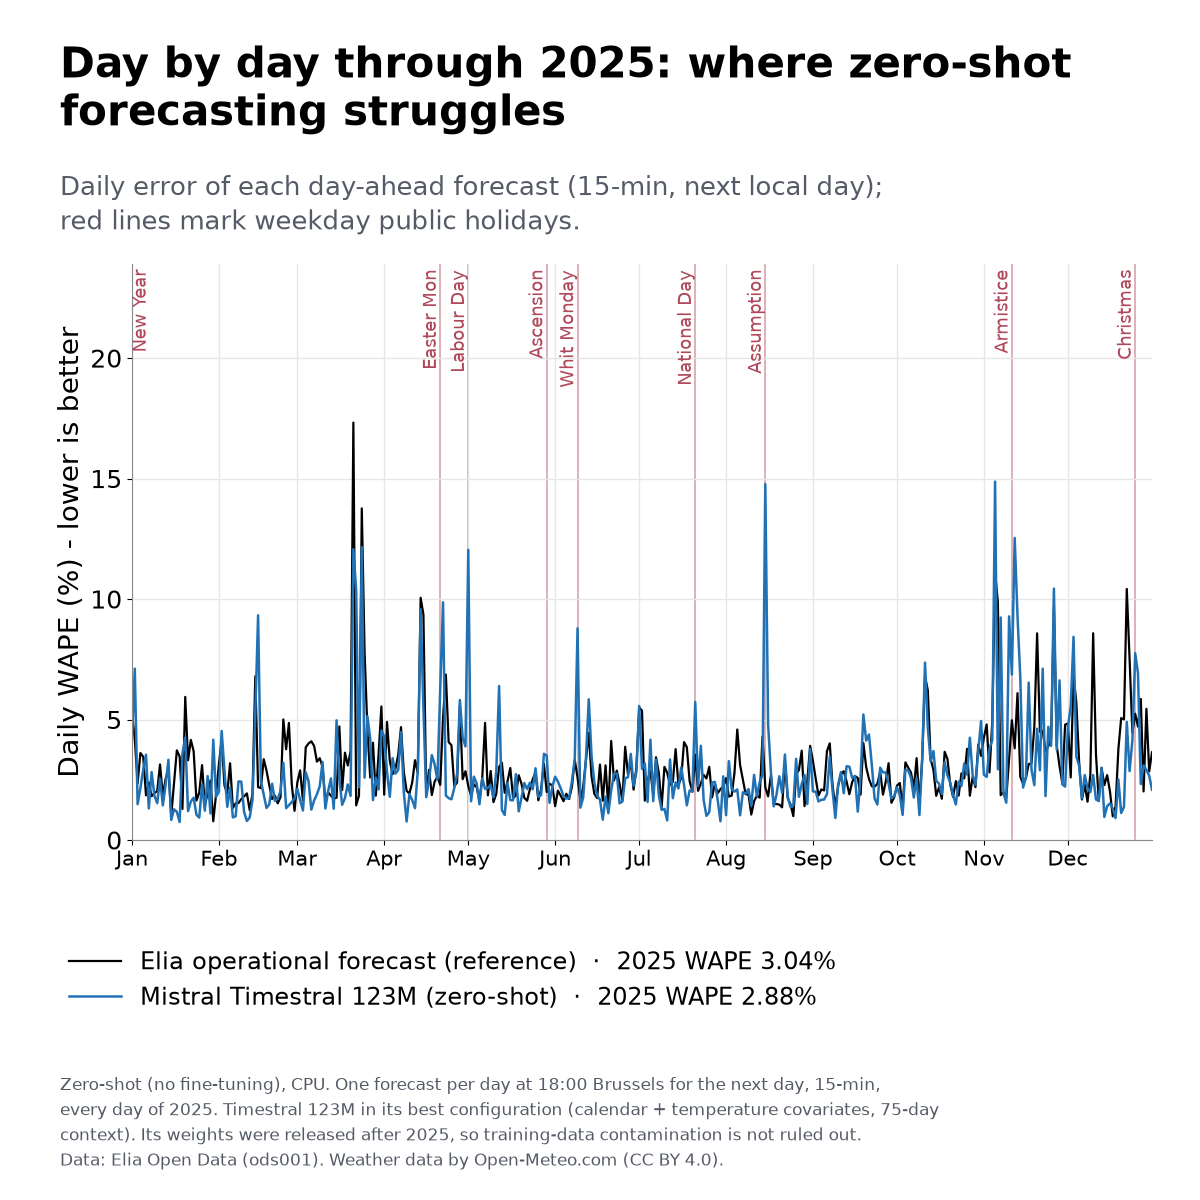
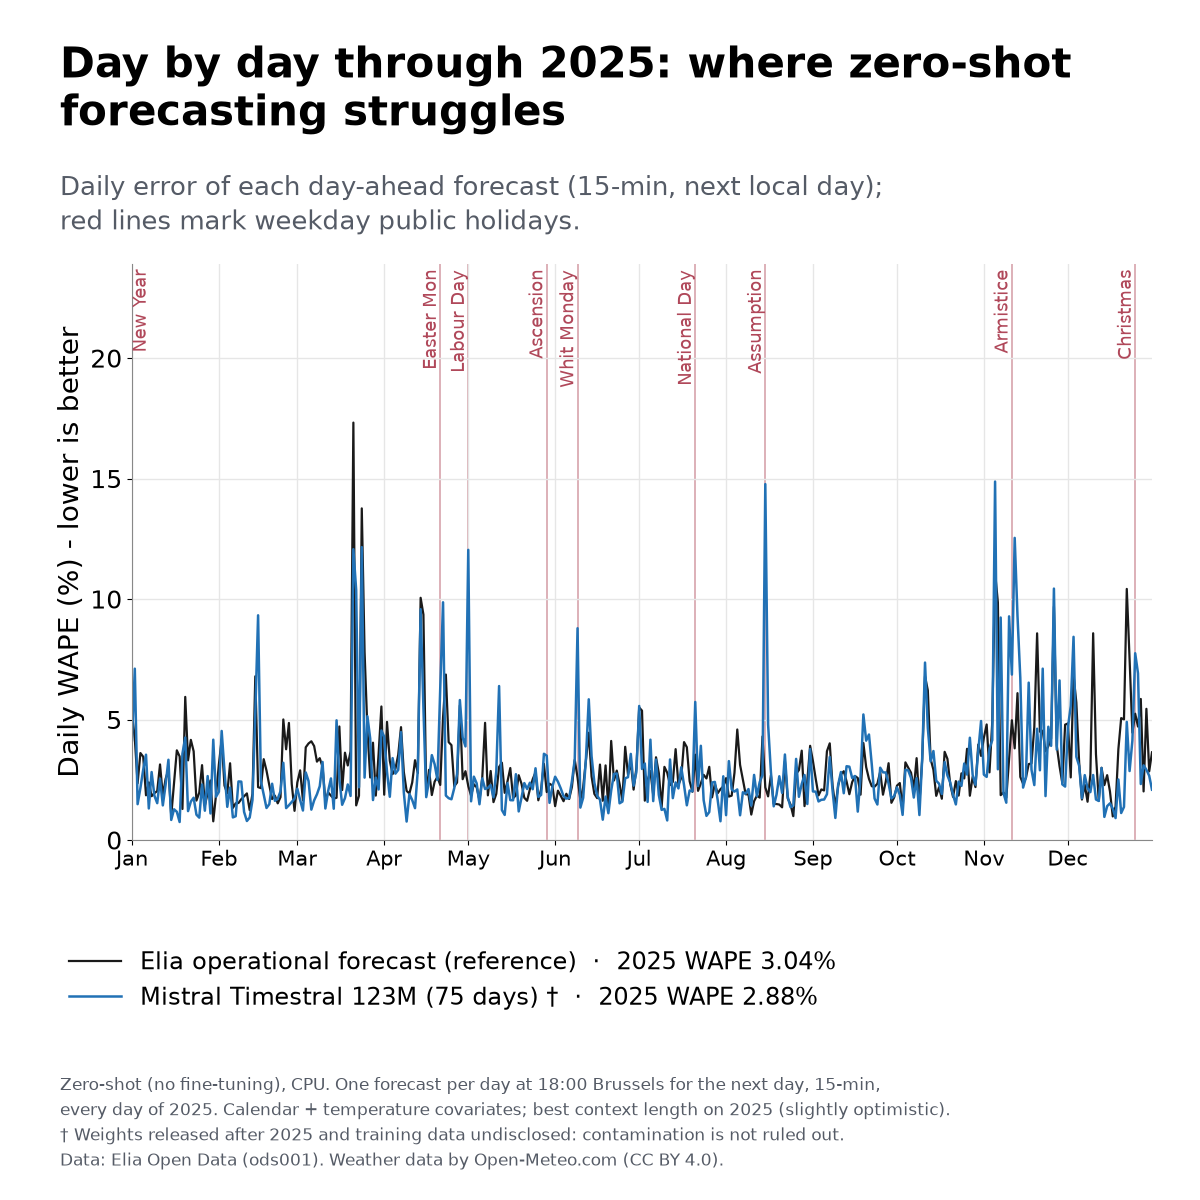
Images: typical week, new labels

diff --git a/scripts/plot_linkedin.py b/scripts/plot_linkedin.py
@@ -3,8 +3,9 @@
     uv run bench export-dashboard          # only if the runs changed
     uv run python scripts/plot_linkedin.py
 
-docs/img/linkedin_week.png : 10-16 Nov 2025 (contains the 11 Nov weekday holiday), actual vs timestral-123m (with its
-                             P10-P90 band) vs Elia's operational forecast, week WAPE per series in the legend.
+docs/img/linkedin_week.png : the dashboard's default week (rule-based "typical week": holiday-free Monday-Sunday whose
+                             WAPE is closest to the full-year WAPE), actual vs timestral-123m (with its P10-P90 band)
+                             vs Elia's operational forecast, week WAPE per series in the legend.
 docs/img/linkedin_year.png : daily WAPE through 2025 for the same two forecasts, weekday holidays labelled.
 """
 
@@ -25,21 +26,23 @@ from tsbench.config import ROOT
 DASH = ROOT / "docs" / "dashboard"
 OUT = ROOT / "docs" / "img"
 MODEL, REF = "timestral-123m", "elia_reference"
-WEEK = ("2025-11-10", "2025-11-16")
-ACTUAL_COLOR, MUTED, HOLIDAY = "#8c8c8c", "#555b66", "#b0485a"
-LABELS = {MODEL: "Mistral Timestral 123M (zero-shot)", REF: "Elia operational forecast (reference)"}
+ACTUAL_COLOR, MUTED, HOLIDAY, NEAR_BLACK = "#8c8c8c", "#555b66", "#b0485a", "#1a1a1a"
 SHORT = {"New Year's Day": "New Year", "Easter Monday": "Easter Mon", "Labor Day": "Labour Day",
          "Ascension Day": "Ascension", "Pentecost Monday": "Whit Monday", "National Day": "National Day",
          "Assumption Day": "Assumption", "Armistice Day": "Armistice", "Christmas Day": "Christmas"}
 FOOTNOTE = ("Zero-shot (no fine-tuning), CPU. One forecast per day at 18:00 Brussels for the next day, 15-min,\n"
-            "every day of 2025. Timestral 123M in its best configuration (calendar + temperature covariates, 75-day\n"
-            "context). Its weights were released after 2025, so training-data contamination is not ruled out.\n"
+            "every day of 2025. Calendar + temperature covariates; best context length on 2025 (slightly optimistic).\n"
+            "† Weights released after 2025 and training data undisclosed: contamination is not ruled out.\n"
             "Data: Elia Open Data (ods001). Weather data by Open-Meteo.com (CC BY 4.0).")
 
 plt.rcParams.update({"font.size": 20, "axes.titlesize": 26, "axes.labelsize": 20, "xtick.labelsize": 18,
                      "ytick.labelsize": 18, "legend.fontsize": 18, "axes.spines.top": False,
                      "axes.spines.right": False, "axes.edgecolor": "#888888", "axes.grid": True,
                      "grid.color": "#e6e6e6", "grid.linewidth": 1})
+
+
+def color(series: dict) -> str:
+    return NEAR_BLACK if series["color"].lower() == "#000000" else series["color"]
 
 
 def wape(a: np.ndarray, f: np.ndarray) -> float:
@@ -62,7 +65,8 @@ def frame(fig, title: str, subtitle: str) -> None:
 
 
 def week_png(data, daily, local) -> None:
-    lo, hi = pd.Timestamp(WEEK[0]), pd.Timestamp(WEEK[1]) + pd.Timedelta(days=1)
+    week = (data["default_view"]["start"], data["default_view"]["end"])
+    lo, hi = pd.Timestamp(week[0]), pd.Timestamp(week[1]) + pd.Timedelta(days=1)
     m = (local >= lo) & (local < hi)
     t, a = local[m], np.asarray(data["actual"])[m]
     s, r = data["series"][MODEL], data["series"][REF]
@@ -72,14 +76,14 @@ def week_png(data, daily, local) -> None:
     fig = plt.figure(figsize=(12, 12), dpi=100)
     ax = fig.add_axes((0.11, 0.33, 0.85, 0.44))
     for d, name, wk in zip(daily["dates"], daily["holiday_name"], daily["is_holiday"]):
-        if wk and WEEK[0] <= d <= WEEK[1]:
+        if wk and week[0] <= d <= week[1]:  # none by construction for the typical week
             ax.axvspan(pd.Timestamp(d), pd.Timestamp(d) + pd.Timedelta(days=1), color=HOLIDAY, alpha=0.10, lw=0)
             ax.text(pd.Timestamp(d) + pd.Timedelta(hours=12), 0.985, f"{SHORT.get(name, name)}\n(public holiday)",
                     transform=ax.get_xaxis_transform(), ha="center", va="top", fontsize=16, color=HOLIDAY)
-    ax.fill_between(t, p10, p90, color=s["color"], alpha=0.18, lw=0, label=f"{LABELS[MODEL]}: P10-P90 band")
+    ax.fill_between(t, p10, p90, color=color(s), alpha=0.18, lw=0, label=f"{s['label']}: P10-P90 band")
     ax.plot(t, a, color=ACTUAL_COLOR, lw=4.5, label="Actual load", solid_capstyle="round")
-    ax.plot(t, ref, color=r["color"], lw=2, label=f"{LABELS[REF]}  ·  week WAPE {wape(a, ref):.2f}%")
-    ax.plot(t, p50, color=s["color"], lw=2.4, label=f"{LABELS[MODEL]}  ·  week WAPE {wape(a, p50):.2f}%")
+    ax.plot(t, ref, color=color(r), lw=2, label=f"{r['label']}  ·  week WAPE {wape(a, ref):.2f}%")
+    ax.plot(t, p50, color=color(s), lw=2.4, label=f"{s['label']}  ·  week WAPE {wape(a, p50):.2f}%")
     ax.set_xlim(lo, hi)
     ax.xaxis.set_major_locator(mdates.DayLocator())  # gridlines at midnight, labels centred on each day
     ax.xaxis.set_major_formatter(matplotlib.ticker.NullFormatter())
@@ -94,8 +98,9 @@ def week_png(data, daily, local) -> None:
     order = [1, 3, 0, 2]
     fig.legend([h[i] for i in order], [lab[i] for i in order], loc="upper left", bbox_to_anchor=(0.04, 0.255),
                frameon=False, ncol=1, handlelength=2.2, fontsize=17, labelspacing=0.45)
-    frame(fig, "How a zero-shot foundation model handles\na holiday week - Belgian load, 10-16 Nov 2025",
-          "Week chosen because it contains a weekday holiday (Tue 11 Nov),\nthe models' main weakness.")
+    span = f"{lo:%a %d} - {hi - pd.Timedelta(days=1):%a %d %b %Y}"
+    frame(fig, "A typical week of 2025: Belgian day-ahead\nload, zero-shot forecast vs actual",
+          f"{span}: the holiday-free week whose WAPE is closest\nto the full-year WAPE (chosen by rule).")
     OUT.mkdir(parents=True, exist_ok=True)
     fig.savefig(OUT / "linkedin_week.png", facecolor="white")
     plt.close(fig)
@@ -113,8 +118,8 @@ def year_png(data, daily) -> None:
             ax.text(d, 0.99, SHORT.get(name, name), transform=ax.get_xaxis_transform(), rotation=90,
                     ha="left" if first else "right", va="top", fontsize=13, color=HOLIDAY)
     for k, lw in ((REF, 1.6), (MODEL, 1.8)):
-        ax.plot(dates, daily["wape"][k], color=data["series"][k]["color"], lw=lw,
-                label=f"{LABELS[k]}  ·  2025 WAPE {full[k]:.2f}%")
+        sr = data["series"][k]
+        ax.plot(dates, daily["wape"][k], color=color(sr), lw=lw, label=f"{sr['label']}  ·  2025 WAPE {full[k]:.2f}%")
     ax.set_xlim(pd.Timestamp("2025-01-01"), pd.Timestamp("2025-12-31"))
     ax.xaxis.set_major_locator(mdates.MonthLocator())
     ax.xaxis.set_major_formatter(mdates.DateFormatter("%b"))
